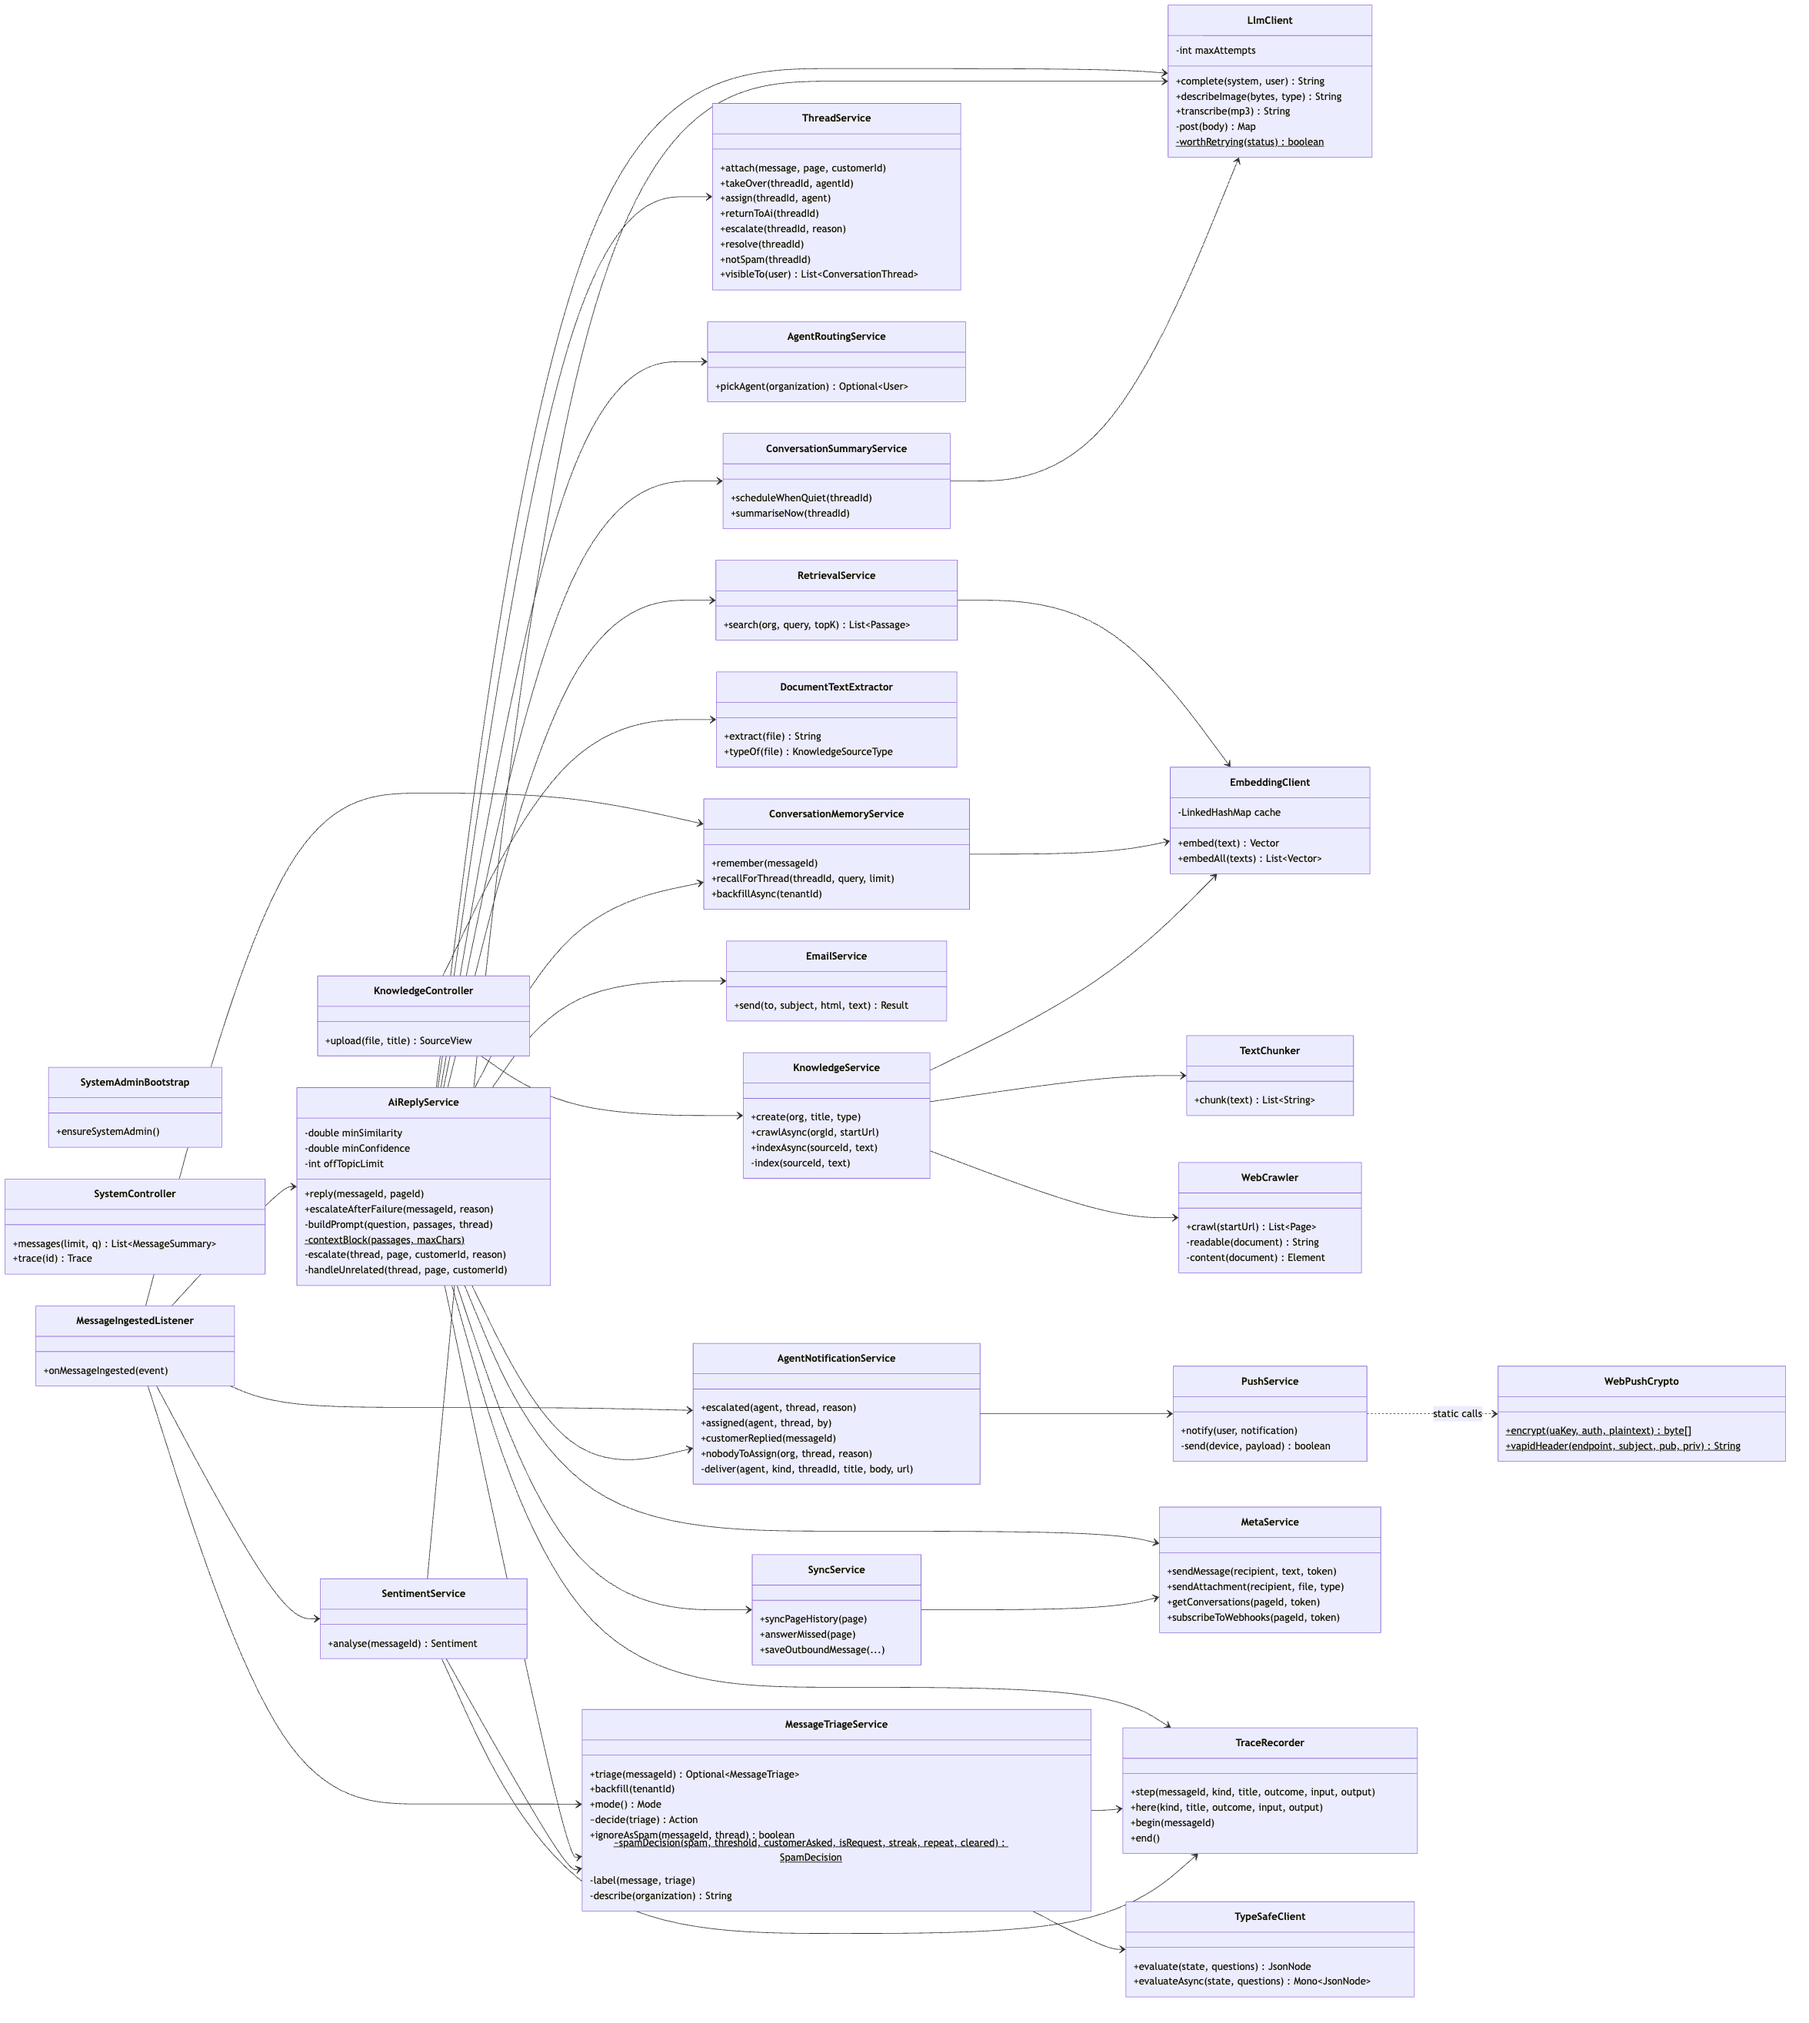
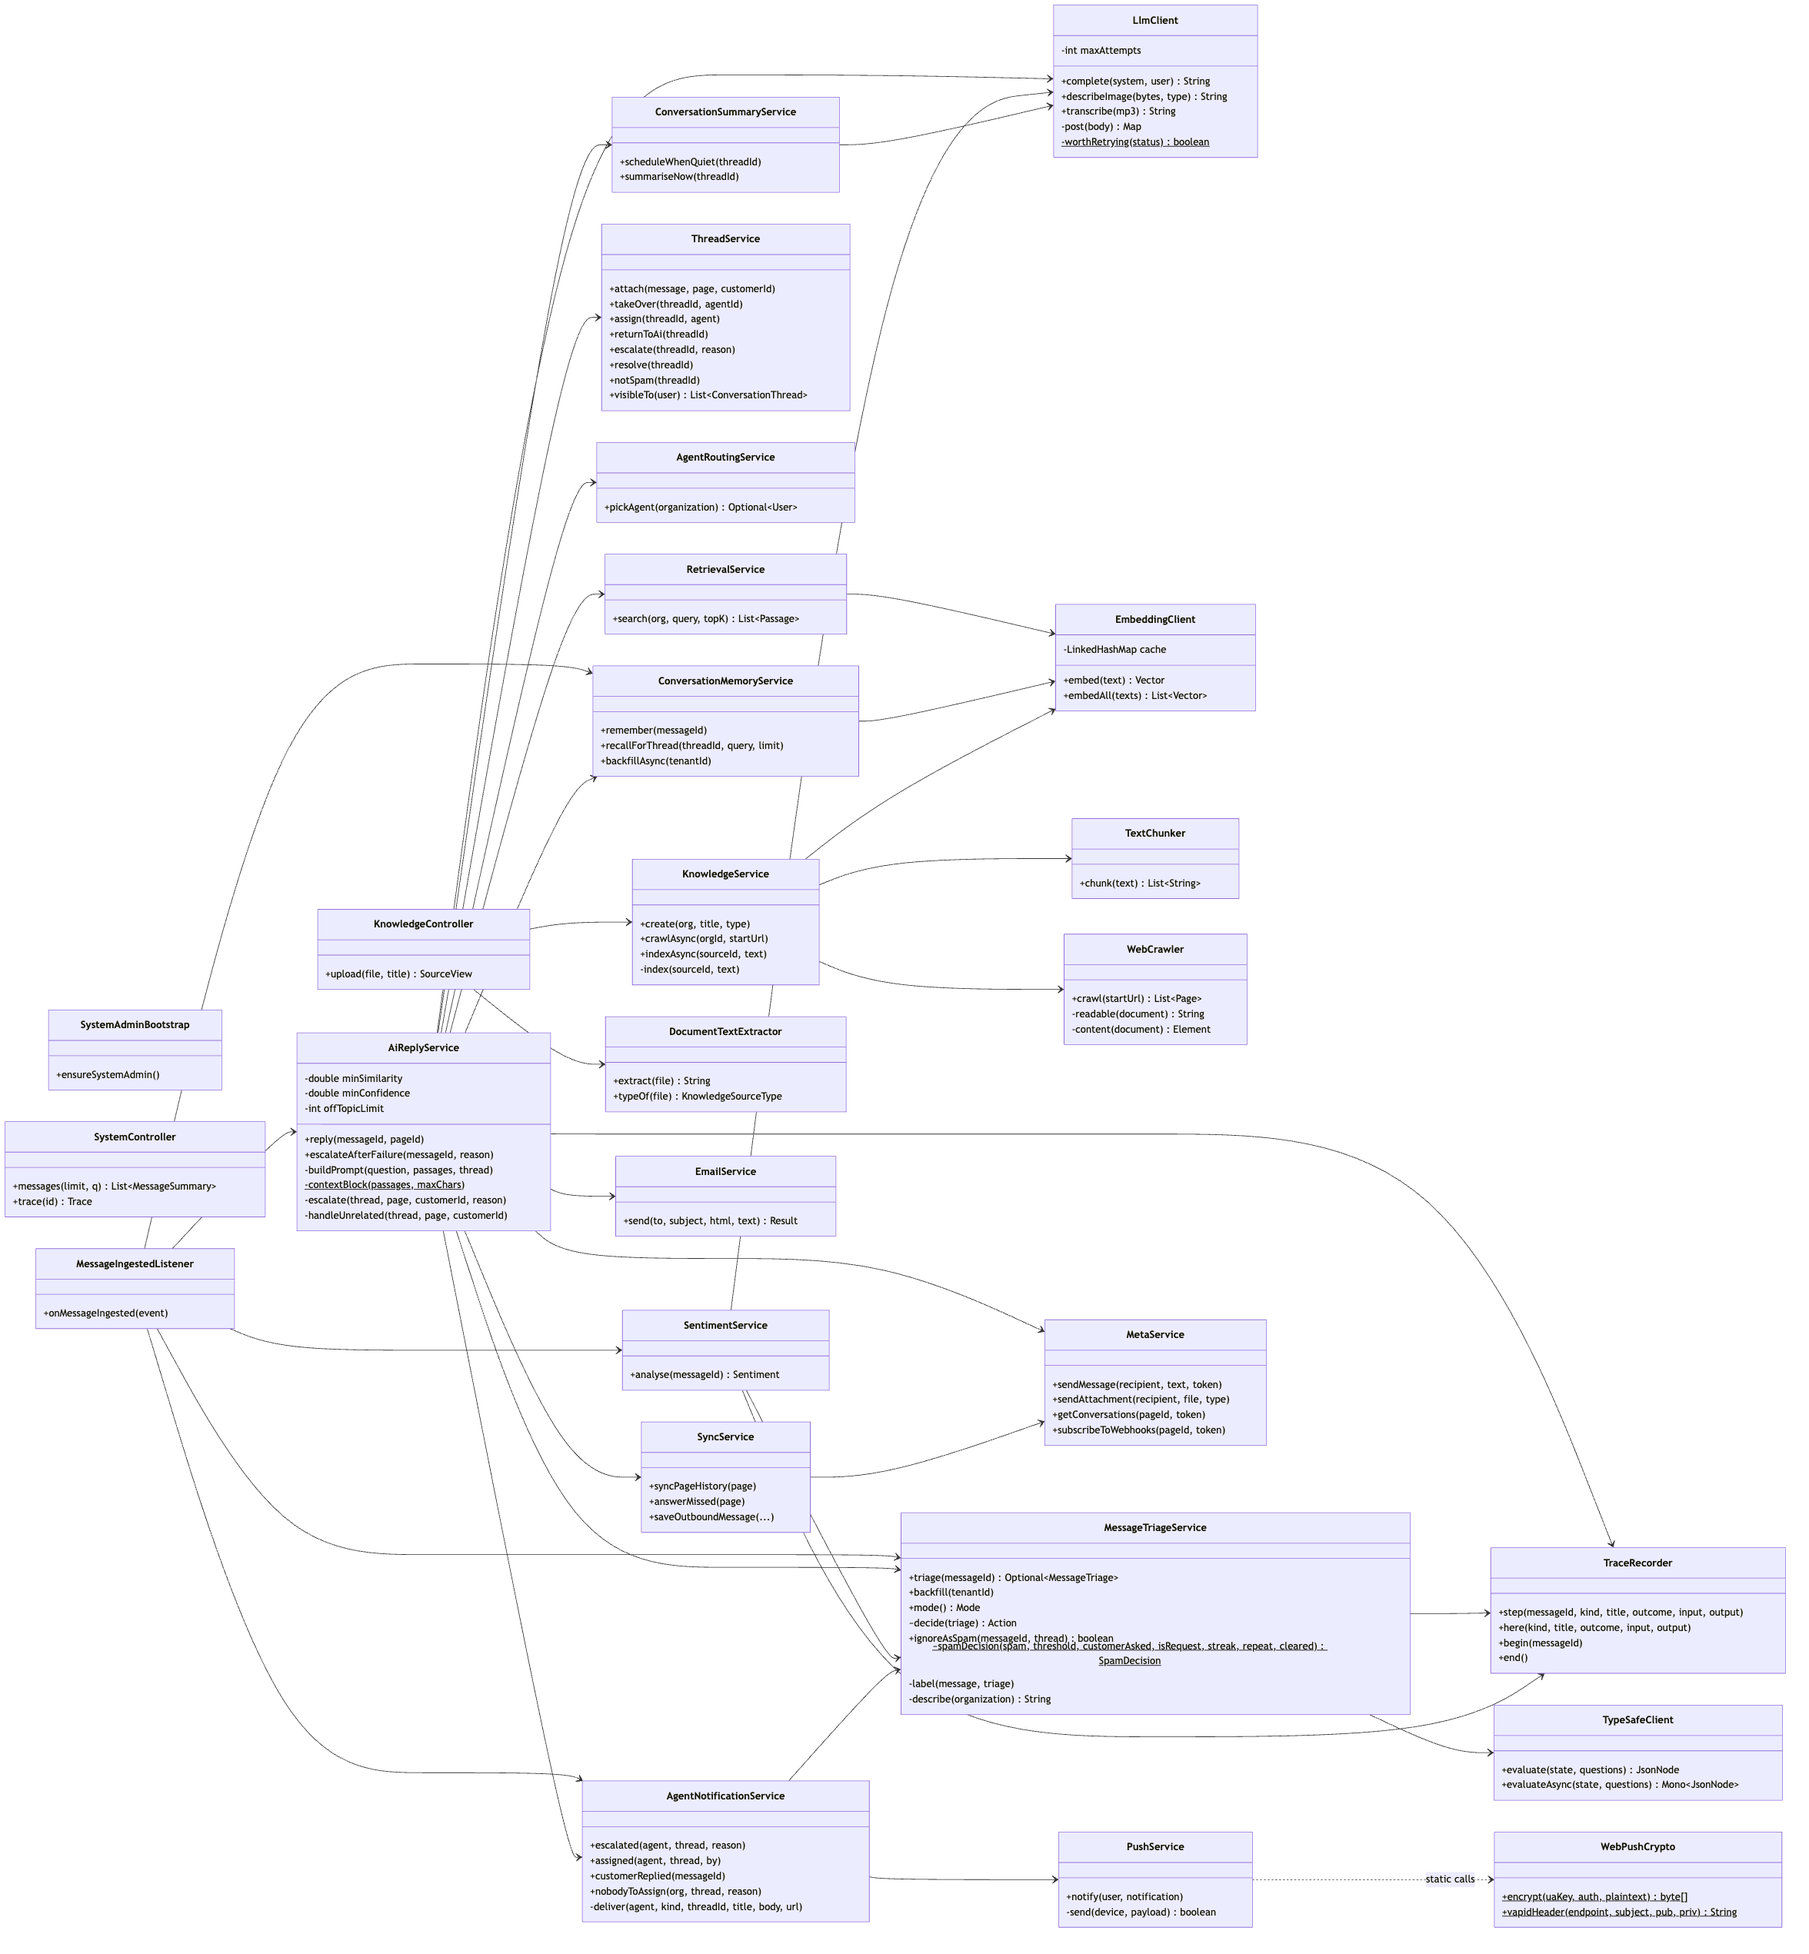
feat: add a spam tab and conversation priority from Jev

diff --git a/frontend/src/pages/InboxPage.jsx b/frontend/src/pages/InboxPage.jsx
@@ -153,7 +153,7 @@ function Attachment({ message, onOpenImage }) {
 }
 
 export default function InboxPage({
-    threads, totalThreads, pages, filter, onFilterChange,
+    threads, totalThreads, spamCount = 0, pages, filter, onFilterChange,
     active, onSelect, onSend, onSendVoice, onSendImage, onReact, onHideMessage, onThreadAction,
     onConnect, search, onSearchChange, sendError, onDismissError, me, team = [], onAssign,
     platform: platformFilter = 'all', onPlatformChange,
@@ -331,6 +331,11 @@ export default function InboxPage({
                                 onClick={() => onFilterChange(f.id)}
                             >
                                 {f.label}
+                                {/* Never a silent bin: a real customer Jev misjudged must be
+                                    noticed, so the tab says how much is waiting in it. */}
+                                {f.id === 'spam' && spamCount > 0 && (
+                                    <span className="chip__count" aria-label={`${spamCount} in spam`}>{spamCount}</span>
+                                )}
                             </button>
                         ))}
                     

diff --git a/frontend/src/App.jsx b/frontend/src/App.jsx
@@ -552,6 +552,7 @@ export default function App() {
                     <InboxPage
                         threads={threads}
                         totalThreads={allThreads.length}
+                        spamCount={allThreads.filter(t => t.spam).length}
                         pages={pages}
                         filter={filter}
                         onFilterChange={setFilter}

diff --git a/frontend/src/styles/app.css b/frontend/src/styles/app.css
@@ -1568,3 +1568,7 @@
 }
 .spam__at { display: block; margin-top: 4px; font-size: 11px; color: var(--text-muted); }
 .spam__note { margin: 0; font-size: 12px; color: var(--text-muted); }
+.chip__count {
+    margin-left: 6px; padding: 0 6px; border-radius: 999px; font-size: 11px; font-weight: 600;
+    background: var(--danger-weak); color: var(--danger);
+}

diff --git a/backend/src/test/java/io/eksamadhan/service/SpamAndPriorityTest.java b/backend/src/test/java/io/eksamadhan/service/SpamAndPriorityTest.java
@@ -37,6 +37,8 @@ class SpamAndPriorityTest {
     @Autowired TraceRecorder trace;
     @Autowired ThreadService threadService;
     @Autowired EntityManager entityManager;
+    @Autowired UserRepository users;
+    @Autowired NotificationRepository notificationRepository;
 
     private SocialPage page;
     private MessageTriageService triage;
@@ -187,5 +189,36 @@ class SpamAndPriorityTest {
         assertFalse(now.isSpam(), "a person's decision outranks Jev's");
         assertTrue(now.isSpamCleared());
         assertEquals("promotion", now.getSpamKind(), "what was overruled is kept");
+    }
+
+    /** Records pushes instead of sending them. */
+    private static class RecordingPush extends PushService {
+        final List<String> sent = new java.util.ArrayList<>();
+        RecordingPush() { super(null, "", "", ""); }
+        @Override
+        public void notify(User user, Notification notification) { sent.add(notification.title()); }
+    }
+
+    @Test
+    void theAssignedPersonIsNotBuzzedForASpamMessageButIsForARealOne() {
+        User owner = users.findAll().stream()
+                .filter(u -> u.getOrganization().getId().equals(page.getOrganization().getId()))
+                .findFirst().orElse(null);
+        assumeFalse(owner == null, "needs a member of the page's workspace");
+
+        ConversationThread thread = conversation();
+        thread.setStatus(ThreadStatus.AGENT_HANDLING);
+        thread.setAssignedAgentId(owner.getId().toString());
+        threads.saveAndFlush(thread);
+        says(thread, "Delivery cost?");
+
+        RecordingPush push = new RecordingPush();
+        AgentNotificationService alerts = new AgentNotificationService(push, messages, users, notificationRepository, triage);
+
+        alerts.customerReplied(says(thread, "Buy 1000 followers for Rs 100"));
+        assertTrue(push.sent.isEmpty(), "a spam message the AI ignores wakes nobody: " + push.sent);
+
+        alerts.customerReplied(says(thread, "Where is my order? It has been two weeks"));
+        assertEquals(1, push.sent.size(), "a real message from the same customer still does");
     }
 }

diff --git a/backend/src/main/java/io/eksamadhan/service/AgentNotificationService.java b/backend/src/main/java/io/eksamadhan/service/AgentNotificationService.java
@@ -38,15 +38,18 @@ public class AgentNotificationService {
     private final SocialMessageRepository messageRepository;
     private final UserRepository userRepository;
     private final NotificationRepository notificationRepository;
+    private final MessageTriageService triageService;
 
     public AgentNotificationService(PushService pushService,
                                     SocialMessageRepository messageRepository,
                                     UserRepository userRepository,
-                                    NotificationRepository notificationRepository) {
+                                    NotificationRepository notificationRepository,
+                                    MessageTriageService triageService) {
         this.pushService = pushService;
         this.messageRepository = messageRepository;
         this.userRepository = userRepository;
         this.notificationRepository = notificationRepository;
+        this.triageService = triageService;
     }
 
     /**
@@ -174,8 +177,11 @@ public class AgentNotificationService {
 
             ConversationThread thread = message.getThread();
             if (thread == null || thread.getAssignedAgentId() == null) return;
-            // Nobody is woken for spam; it waits in the Spam tab for whoever looks.
+            // Nobody is woken for spam; it waits in the Spam tab for whoever looks. That covers a
+            // single spam message in a real conversation too — the AI ignores it, so buzzing
+            // its owner about it would be the one alert that asks them to act on nothing.
             if (thread.isSpam()) return;
+            if (triageService != null && triageService.ignoreAsSpam(messageId, thread)) return;
             if (thread.getStatus() != ThreadStatus.AGENT_HANDLING
                     && thread.getStatus() != ThreadStatus.OPEN_FOR_AGENT) return;
 

diff --git a/backend/src/test/java/io/eksamadhan/service/AgentNotificationServiceTest.java b/backend/src/test/java/io/eksamadhan/service/AgentNotificationServiceTest.java
@@ -54,7 +54,7 @@ class AgentNotificationServiceTest {
 
         // Null notification repository: `deliver` records into it inside its own try/catch, so
         // these tests see the push that would have gone out without needing a database.
-        notifications = new AgentNotificationService(push, null, users, null);
+        notifications = new AgentNotificationService(push, null, users, null, null);
     }
 
     private User person(String email, UserRole role) {

diff --git a/PROJECT_TRACKING.md b/PROJECT_TRACKING.md
@@ -298,11 +298,14 @@ expire after 7 days — re-send if it lapses.
       to an agent. Now a spam message is ignored on its own even in a real conversation (no
       reply, no handover, not counted as waiting, never passed to the model), and two in a row
       move the conversation back to Spam. The exact sequence is a test
+- [x] The assigned agent is no longer alerted for a spam message the AI ignores, in an otherwise
+      real conversation; a real message from the same customer still alerts them (tested). The
+      Spam tab shows how many conversations are in it, so a misjudged customer is never buried
 - [x] **Sentiment now comes from Jev alone** — the local model is no longer asked, one call fewer
       per customer message. Jev runs before every reply, in every mode, so spam is caught
       before the AI answers it
-- [x] Migration V23; 15 new tests (5 against the database for the spam and priority rules, 7 for
-      the spam rule itself, 2 for reading Jev's answer, 1 for the visualizer's label), 44 in all
+- [x] Migration V23; 16 new tests (6 against the database for the spam and priority rules, 7 for
+      the spam rule itself, 2 for reading Jev's answer, 1 for the visualizer's label), 45 in all
       passing; checked end to end with a signed test webhook
       carrying a scam message — flagged in under a second, never answered, then cleared with
       Not spam — and the test conversation deleted

diff --git a/docs/memory.md b/docs/memory.md
@@ -751,6 +751,10 @@ status machine and authentication have all since been built — see the change l
 
 - Never commit or push — graded coursework, Manjit owns the history. See `rules.md`.
 - No AI attribution anywhere in the repo.
+- **Never lose a potential client.** Every automated rule that silences, hides or closes a
+  customer (spam, the off-topic streak, firewall shortcuts, alert suppression) must err
+  towards the customer, be measured on real messages first, keep a visible way back (a genuine
+  request restores; a person's override is final) and leave evidence a person can check.
 - No dependencies beyond `architecture.md` without asking.
 - Phases are sequential — see `phases.md`.
 

diff --git a/docs/system-design/new-system-design/class-diagram/README.md b/docs/system-design/new-system-design/class-diagram/README.md
@@ -450,6 +450,7 @@ classDiagram
     AiReplyService --> RetrievalService
     AiReplyService --> MessageTriageService
     SentimentService --> MessageTriageService
+    AgentNotificationService --> MessageTriageService
     MessageTriageService --> TypeSafeClient
     AiReplyService --> TraceRecorder
     MessageTriageService --> TraceRecorder
